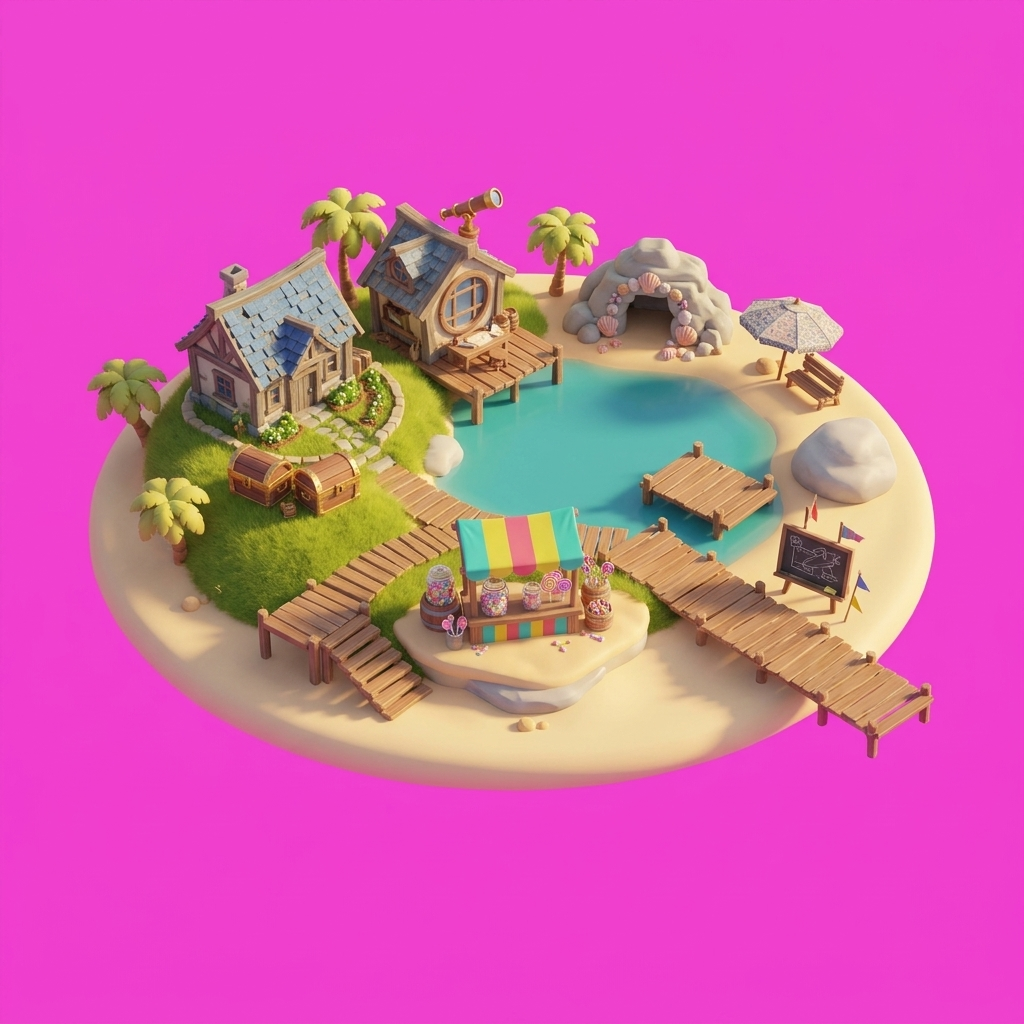
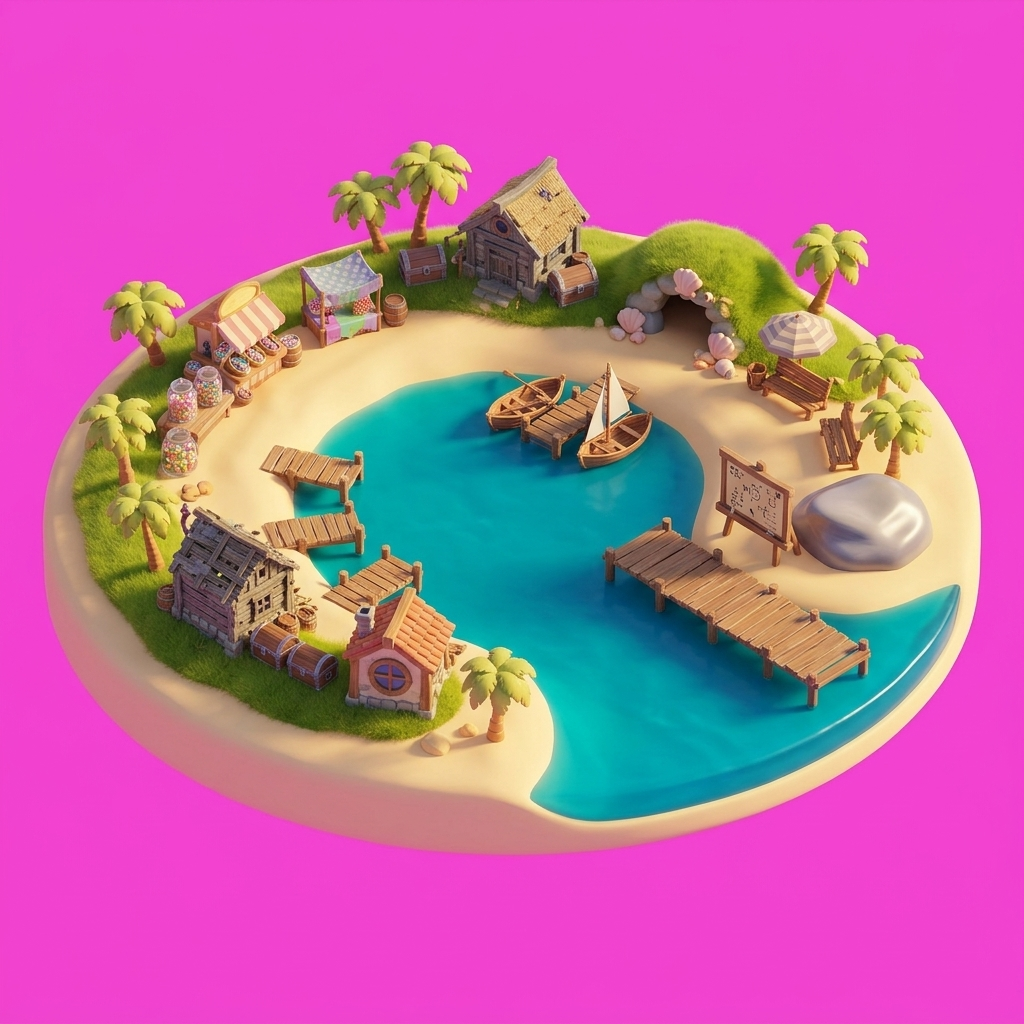
Taschengeld-Bucht: echte Bucht als Inselbild, alle Bildergeschichten
Karte und Ansicht von innen zeigen jetzt eine Hufeisen-Bucht, der Weg der
Stationen führt wie ein umgedrehtes U herum, die Tauchplätze liegen in der
Bucht und im Meer. Die letzten 10 Bilder der Bildergeschichten sind da.

Claude-Session: https://claude.ai/code/session_01RquttY5Fvxi8zMpAb1Usdz

diff --git a/taleria/BILDER.md b/taleria/BILDER.md
@@ -463,8 +463,8 @@ Erstellt am 17.11.2026 von Claude mit Gemini, nachdem die Texte der Insel geschr
 
 | Nr. | Datei | Bild | Anhängen | Stand |
 | --- | --- | --- | --- | --- |
-| 180 | `map.island.taschengeld-bucht` | Die Taschengeld-Bucht auf der Karte (neu als Hufeisen-Bucht, Marcs Wunsch am 17.11.2026; die runde Fassung ist vorerst drin) | das Kartenbild des Hafens (design/gemini/map.island.hafen.jpg) | da (Claude mit Gemini, 17.11.2026) |
-| 181 | `island.taschengeld-bucht.background` | Die Taschengeld-Bucht von innen (neu als Bucht, danach Weg und Tauchplätze neu ausmessen) | das neue Kartenbild der Taschengeld-Bucht (Bild 180) | da (Claude mit Gemini, 17.11.2026) |
+| 180 | `map.island.taschengeld-bucht` | Die Taschengeld-Bucht auf der Karte (als Hufeisen-Bucht, Marcs Wunsch am 17.11.2026) | das Kartenbild des Hafens (design/gemini/map.island.hafen.jpg) | da (Claude mit Gemini, 17.11.2026) |
+| 181 | `island.taschengeld-bucht.background` | Die Taschengeld-Bucht von innen (als Bucht, Weg als umgedrehtes U ausgemessen) | das neue Kartenbild der Taschengeld-Bucht (Bild 180) | da (Claude mit Gemini, 17.11.2026) |
 | 182 | `character.mia` | Mia, die Möwe am Kiosk | Talo (design/gemini/character.talo.jpg) | da (Claude mit Gemini, 17.11.2026) |
 | 183 | `character.kurt` | Kurt, der Krebs und Buchhalter | Talo (design/gemini/character.talo.jpg) | da (Claude mit Gemini, 17.11.2026) |
 | 184 | `badge.taschengeld-bucht` | Orden „Kassenwart der Bucht“ | der Orden mit dem Anker (design/gemini/icon.badges.jpg) | da (Claude mit Gemini, 17.11.2026) |
@@ -480,18 +480,18 @@ Erstellt am 17.11.2026 von Claude mit Gemini, nachdem die Texte der Insel geschr
 | 194 | `story.taschengeld-bucht.3.1` | Kurts Logbuch | Bild 183 (Kurt), Tala | da (Claude mit Gemini, 17.11.2026) |
 | 195 | `story.taschengeld-bucht.3.2` | Einnahmen minus Ausgaben | Tala | da (Claude mit Gemini, 17.11.2026) |
 | 196 | `story.taschengeld-bucht.3.3` | Talas Ausgaben: Süßigkeiten | Talo, Tala | da (Claude mit Gemini, 17.11.2026) |
-| 197 | `story.taschengeld-bucht.4.1` | Planungssteg mit Wochenplan | Bild 183 (Kurt), Tala | fehlt (Google-Ausgabenlimit erreicht) |
+| 197 | `story.taschengeld-bucht.4.1` | Planungssteg mit Wochenplan | Bild 183 (Kurt), Tala | da (Claude mit Gemini, 17.11.2026) |
 | 198 | `story.taschengeld-bucht.4.2` | Zu viele Wünsche | Tala | da (Claude mit Gemini, 17.11.2026) |
 | 199 | `story.taschengeld-bucht.4.3` | Talas fertiger Plan | Tala | da (Claude mit Gemini, 17.11.2026) |
-| 200 | `story.taschengeld-bucht.5.1` | Talas leerer Beutel | Tala | fehlt (Google-Ausgabenlimit erreicht) |
-| 201 | `story.taschengeld-bucht.5.2` | Schwimmen am Strand | Talo, Tala | fehlt (Google-Ausgabenlimit erreicht) |
-| 202 | `story.taschengeld-bucht.5.3` | Leihen kostet mehr | Bild 183 (Kurt), Bild 182 (Mia) | fehlt (Google-Ausgabenlimit erreicht) |
-| 203 | `story.taschengeld-bucht.6.1` | Omas Brief mit Geld | Tala | fehlt (Google-Ausgabenlimit erreicht) |
-| 204 | `story.taschengeld-bucht.6.2` | Geschenk aufteilen | Bild 183 (Kurt), Tala | fehlt (Google-Ausgabenlimit erreicht) |
-| 205 | `story.taschengeld-bucht.6.3` | Tala malt ein Danke-Bild | Tala | fehlt (Google-Ausgabenlimit erreicht) |
-| 206 | `story.taschengeld-bucht.7.1` | Ruhiger Abend | Talo, Tala | fehlt (Google-Ausgabenlimit erreicht) |
-| 207 | `story.taschengeld-bucht.7.2` | Tala zeigt ihr Logbuch | Talo, Tala | fehlt (Google-Ausgabenlimit erreicht) |
-| 208 | `story.taschengeld-bucht.7.3` | Kurt übergibt das Kartenstück | Bild 183 (Kurt), Talo, Tala | fehlt (Google-Ausgabenlimit erreicht) |
+| 200 | `story.taschengeld-bucht.5.1` | Talas leerer Beutel | Tala | da (Claude mit Gemini, 17.11.2026) |
+| 201 | `story.taschengeld-bucht.5.2` | Schwimmen am Strand | Talo, Tala | da (Claude mit Gemini, 17.11.2026) |
+| 202 | `story.taschengeld-bucht.5.3` | Leihen kostet mehr | Bild 183 (Kurt), Bild 182 (Mia) | da (Claude mit Gemini, 17.11.2026) |
+| 203 | `story.taschengeld-bucht.6.1` | Omas Brief mit Geld | Tala | da (Claude mit Gemini, 17.11.2026) |
+| 204 | `story.taschengeld-bucht.6.2` | Geschenk aufteilen | Bild 183 (Kurt), Tala | da (Claude mit Gemini, 17.11.2026) |
+| 205 | `story.taschengeld-bucht.6.3` | Tala malt ein Danke-Bild | Tala | da (Claude mit Gemini, 17.11.2026) |
+| 206 | `story.taschengeld-bucht.7.1` | Ruhiger Abend | Talo, Tala | da (Claude mit Gemini, 17.11.2026) |
+| 207 | `story.taschengeld-bucht.7.2` | Tala zeigt ihr Logbuch | Talo, Tala | da (Claude mit Gemini, 17.11.2026) |
+| 208 | `story.taschengeld-bucht.7.3` | Kurt übergibt das Kartenstück | Bild 183 (Kurt), Talo, Tala | da (Claude mit Gemini, 17.11.2026) |
 
 ## 4r. Die Figur des Kindes: Löwe oder Löwin (Bild 167 bis 175)
 
